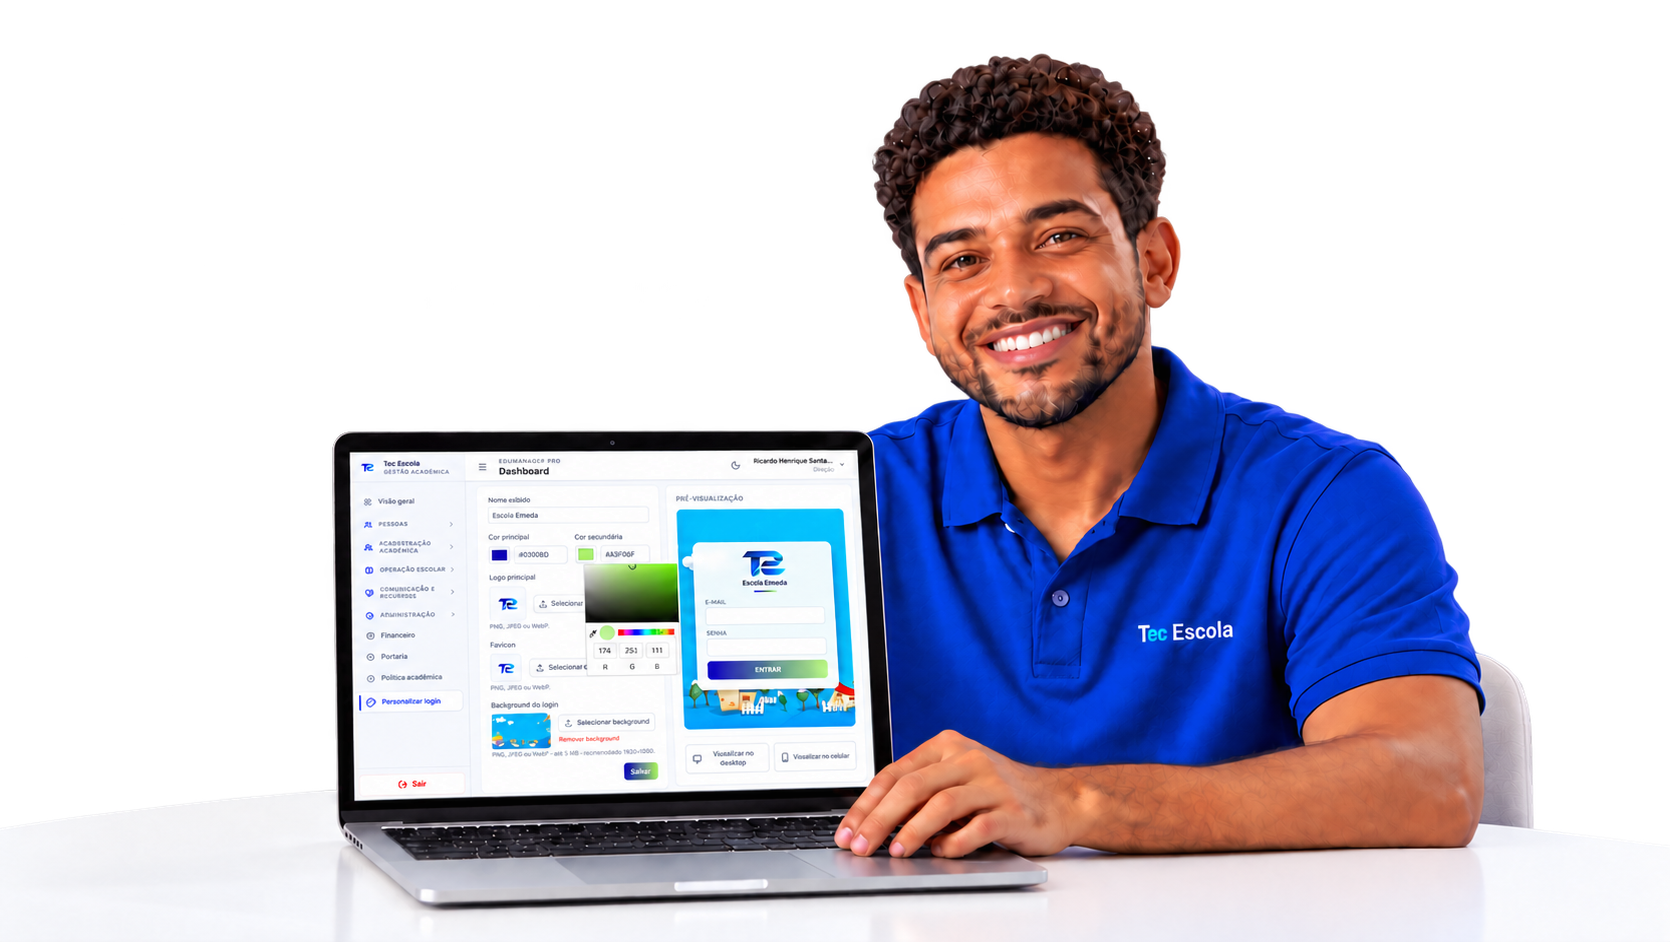
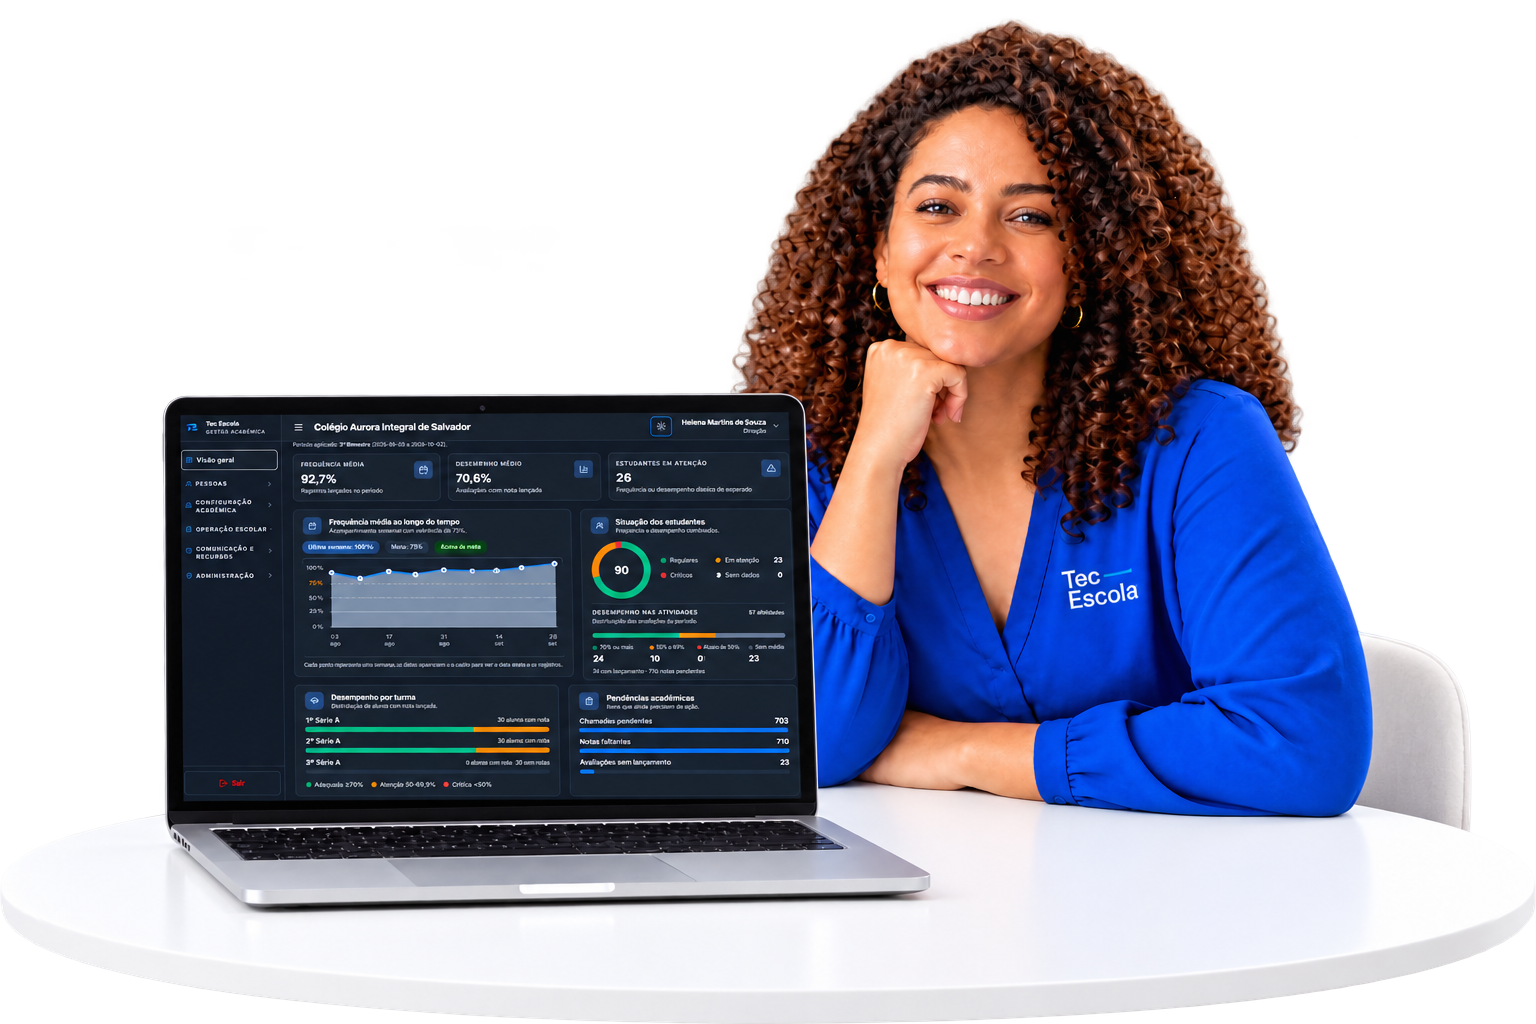
Atualiza imagens do hero principal

diff --git a/index.html b/index.html
@@ -62,13 +62,13 @@
           <div class="hero-person" aria-label="Profissionais usando o Tec Escola">
             <div class="hero-slides" aria-live="polite">
               <figure class="hero-slide is-active" data-hero-slide="0">
-                <img class="hero-person-base" src="./assets/educadora-uniforme-horizontal-cutout.png?v=hero-base-screen-16" alt="Educadora sorrindo com o dashboard acadêmico do Tec Escola no notebook e uniforme Tec Escola" />
+                <img class="hero-person-base" src="./assets/educadora-uniforme-horizontal-cutout.png?v=hero-man-20261007-1" alt="Homem sorrindo com o dashboard do Tec Escola no notebook" />
               </figure>
               <figure class="hero-slide" data-hero-slide="1">
-                <img src="./assets/educadora-apontando-uniforme-horizontal-cutout.png?v=original-photo" alt="Educadora apontando para o painel acadêmico com uniforme Tec Escola" />
+                <img src="./assets/educadora-apontando-uniforme-horizontal-cutout.png?v=hero-woman-panel-20261007-1" alt="Mulher sorrindo com o painel do Tec Escola no notebook" />
               </figure>
               <figure class="hero-slide" data-hero-slide="2">
-                <img src="./assets/educador-dashboard-uniforme-horizontal-cutout.png?v=screen-dashboard-20261006-3" alt="Educador sorrindo com o dashboard do Tec Escola visível no notebook e uniforme Tec Escola" />
+                <img src="./assets/educador-dashboard-uniforme-horizontal-cutout.png?v=hero-woman-dashboard-20261007-1" alt="Mulher sorridente com o dashboard escolar do Tec Escola no notebook" />
               </figure>
             </div>
           </div>
